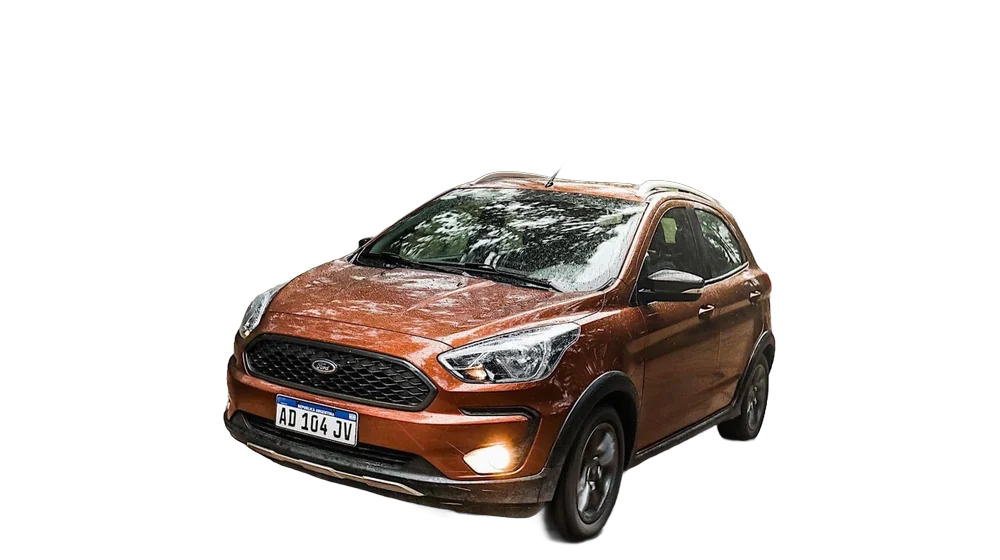
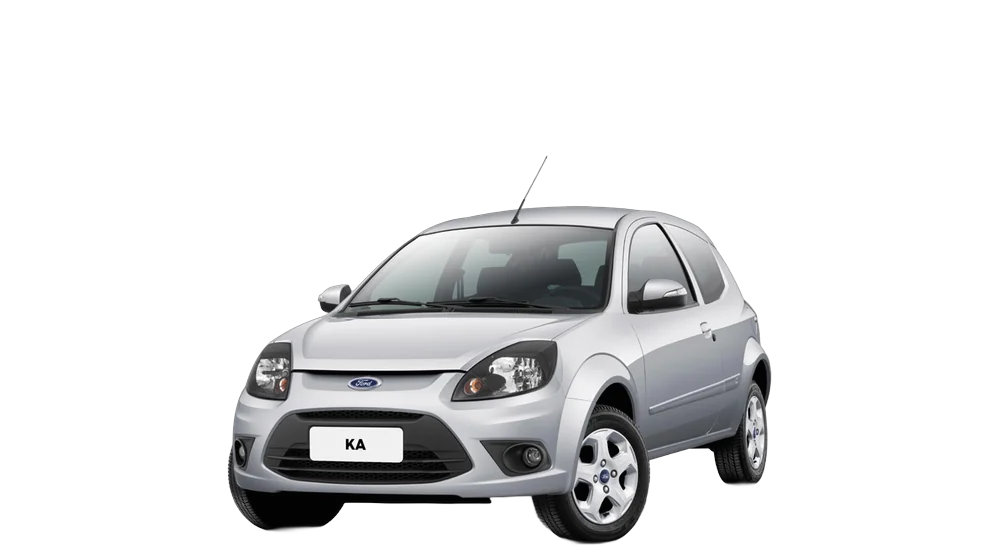
vehículos: fotos de Alfa 147, Classic, Meriva, Aveo, Cruze, S10, Ducato, Ka, Territory; C32 y Raptor espejadas; /vehiculos/todos (catálogo público con fotos y medidas) reemplaza a la página de revisión

Changed region(s): [[0.217, 0.3036, 0.775, 0.9714]]

diff --git a/src/app/vehiculos/todos/page.tsx b/src/app/vehiculos/todos/page.tsx
@@ -1,0 +1,91 @@
+import type { Metadata } from "next";
+import Link from "@/components/ui/Link";
+import { POPULAR_VEHICLES, vehicleSlug } from "@/lib/vehicles";
+import { vehiclePhoto } from "@/lib/vehicle-photos";
+import { marcaSlug } from "@/lib/marcas-autos";
+import { MarcaLogo } from "@/components/ui/MarcaLogo";
+import { JsonLd } from "@/components/seo/JsonLd";
+import { canonical, breadcrumbJsonLd, itemListJsonLd } from "@/lib/seo";
+
+export const metadata: Metadata = {
+  title: `Neumáticos para todos los autos y camionetas: ${POPULAR_VEHICLES.length} modelos con su medida`,
+  description:
+    "Catálogo de todos los autos, pickups y utilitarios que se venden y circulan en Argentina, por marca, con la medida de neumático original de cada modelo y stock real en Córdoba.",
+  alternates: canonical("/vehiculos/todos"),
+};
+
+const medidas = (v: (typeof POPULAR_VEHICLES)[number]) => [...new Set(v.sizes.map((s) => `${s.w}/${s.p} R${s.r}`))];
+
+export default function TodosLosVehiculosPage() {
+  const porMarca = new Map<string, typeof POPULAR_VEHICLES>();
+  for (const v of POPULAR_VEHICLES) porMarca.set(v.brand, [...(porMarca.get(v.brand) ?? []), v]);
+  const marcas = [...porMarca.keys()].sort((a, b) => a.localeCompare(b, "es"));
+
+  return (
+    <main className="min-h-screen bg-slate-50 pb-20">
+      <JsonLd
+        data={breadcrumbJsonLd([
+          { name: "Inicio", path: "/" },
+          { name: "Neumáticos por vehículo", path: "/vehiculos" },
+          { name: "Todos los modelos", path: "/vehiculos/todos" },
+        ])}
+      />
+      <JsonLd
+        data={itemListJsonLd(
+          POPULAR_VEHICLES.map((v) => ({ name: `Neumáticos para ${v.brand} ${v.model}`, path: `/vehiculos/${vehicleSlug(v.brand, v.model)}` }))
+        )}
+      />
+      <div className="bg-black px-4 py-16">
+        <div className="mx-auto max-w-4xl text-center">
+          <h1 className="mb-4 text-4xl font-black text-white md:text-5xl">Todos los autos y camionetas</h1>
+          <p className="mx-auto max-w-2xl text-lg text-slate-300">
+            {POPULAR_VEHICLES.length} modelos de {marcas.length} marcas con la medida de neumático original. Tocá el tuyo para ver las versiones, el stock y el precio.
+          </p>
+        </div>
+      </div>
+      <div className="mx-auto max-w-7xl px-4 pt-8">
+        <nav aria-label="Marcas" className="mb-10 flex flex-wrap gap-2">
+          {marcas.map((m) => (
+            <a key={m} href={`#${marcaSlug(m)}`} className="rounded-full bg-black px-3 py-1 text-sm font-semibold text-white hover:bg-orange-600">
+              {m}
+            </a>
+          ))}
+        </nav>
+        {marcas.map((marca) => (
+          <section key={marca} id={marcaSlug(marca)} className="mb-12 scroll-mt-24">
+            <div className="mb-4 flex items-center justify-between gap-3 border-b border-slate-300 pb-2">
+              <h2 className="flex items-center gap-3 text-2xl font-black text-black">
+                <MarcaLogo brand={marca} className="h-9 w-9" />
+                Neumáticos para {marca}
+              </h2>
+              <Link href={`/vehiculos/marca/${marcaSlug(marca)}`} className="shrink-0 text-sm font-semibold text-orange-600 hover:underline">
+                Página de {marca} →
+              </Link>
+            </div>
+            <div className="grid grid-cols-2 gap-3 sm:grid-cols-3 md:grid-cols-4 lg:grid-cols-5">
+              {porMarca.get(marca)!.map((v) => {
+                const slug = vehicleSlug(v.brand, v.model);
+                const foto = vehiclePhoto(slug);
+                const ms = medidas(v);
+                return (
+                  <Link key={slug} href={`/vehiculos/${slug}`} className="rounded-lg border border-slate-200 bg-white p-3 hover:border-orange-500">
+                    <div className="flex h-24 items-center justify-center">
+                      {foto ? (
+                        // eslint-disable-next-line @next/next/no-img-element
+                        <img src={foto} alt={`${v.brand} ${v.model}`} width={1000} height={560} loading="lazy" className="max-h-full w-auto object-contain" />
+                      ) : (
+                        <MarcaLogo brand={v.brand} className="h-14 w-14 opacity-60" />
+                      )}
+                    </div>
+                    <p className="mt-2 truncate text-sm font-bold text-black">{v.brand} {v.model}</p>
+                    <p className="truncate text-xs text-slate-600">{ms.slice(0, 3).join(" · ")}{ms.length > 3 ? ` · +${ms.length - 3}` : ""}</p>
+                  </Link>
+                );
+              })}
+            </div>
+          </section>
+        ))}
+      </div>
+    </main>
+  );
+}

diff --git a/src/lib/vehicle-photos.ts b/src/lib/vehicle-photos.ts
@@ -9,6 +9,7 @@ import { SITE_URL } from "./config";
  * filesystem; al sumar una foto nueva, agregar su slug acá.
  */
 export const VEHICLE_PHOTOS = new Set([
+  "alfa-romeo-147",
   "alfa-romeo-giulia",
   "alfa-romeo-stelvio",
   "audi-a1",
@@ -33,12 +34,17 @@ export const VEHICLE_PHOTOS = new Set([
   "byd-dolphin-mini",
   "byd-song-pro",
   "chery-tiggo-8",
+  "chevrolet-aveo",
   "chevrolet-celta",
+  "chevrolet-classic",
   "chevrolet-corsa",
+  "chevrolet-cruze",
+  "chevrolet-meriva",
   "chevrolet-montana",
   "chevrolet-onix",
   "chevrolet-onix-plus",
   "chevrolet-prisma",
+  "chevrolet-s10",
   "chevrolet-spark-euv",
   "chevrolet-spin",
   "chevrolet-tracker",
@@ -53,6 +59,7 @@ export const VEHICLE_PHOTOS = new Set([
   "fiat-600",
   "fiat-argo",
   "fiat-cronos",
+  "fiat-ducato",
   "fiat-fastback",
   "fiat-fiorino",
   "fiat-idea",
@@ -70,6 +77,7 @@ export const VEHICLE_PHOTOS = new Set([
   "ford-ka",
   "ford-ranger",
   "ford-ranger-raptor",
+  "ford-territory",
   "ford-transit",
   "great-wall-poer",
   "haval-h6",

diff --git a/src/app/vehiculos/page.tsx b/src/app/vehiculos/page.tsx
@@ -43,7 +43,12 @@ export default function VehiculosIndexPage() {
             models: porMarca.get(marca)!.map((v) => ({ label: `${v.brand} ${v.model}`, href: `/vehiculos/${vehicleSlug(v.brand, v.model)}` })),
           }))}
         />
-        <h2 className="mb-6 mt-12 text-2xl font-black text-navy-900">Todos los modelos por marca</h2>
+        <h2 className="mb-2 mt-12 text-2xl font-black text-navy-900">Todos los modelos por marca</h2>
+        <p className="mb-6 text-slate-600">
+          <Link href="/vehiculos/todos" className="font-bold text-orange-600 hover:underline">
+            Ver el catálogo completo con fotos y medidas →
+          </Link>
+        </p>
         <div className="space-y-8">
           {marcas.map((marca) => (
             <section key={marca}>

diff --git a/src/app/sitemap.ts b/src/app/sitemap.ts
@@ -84,6 +84,7 @@ export default async function sitemap(): Promise<MetadataRoute.Sitemap> {
     ...MARCAS_PREMIUM.map((m) => url(`/alternativas/${m.slug}`, 0.7, "weekly")),
     ...OTRAS_MARCAS.map((m) => url(`/marcas-de-neumaticos-chinos/${m.slug}`, 0.7, "weekly")),
     url("/vehiculos", 0.8, "weekly"),
+    url("/vehiculos/todos", 0.7, "weekly"),
     ...[...new Set(POPULAR_VEHICLES.map((v) => v.brand))].map((b) => url(`/vehiculos/marca/${marcaSlug(b)}`, 0.7, "weekly")),
     ...POPULAR_VEHICLES.map((v) => {
       const slug = vehicleSlug(v.brand, v.model);
